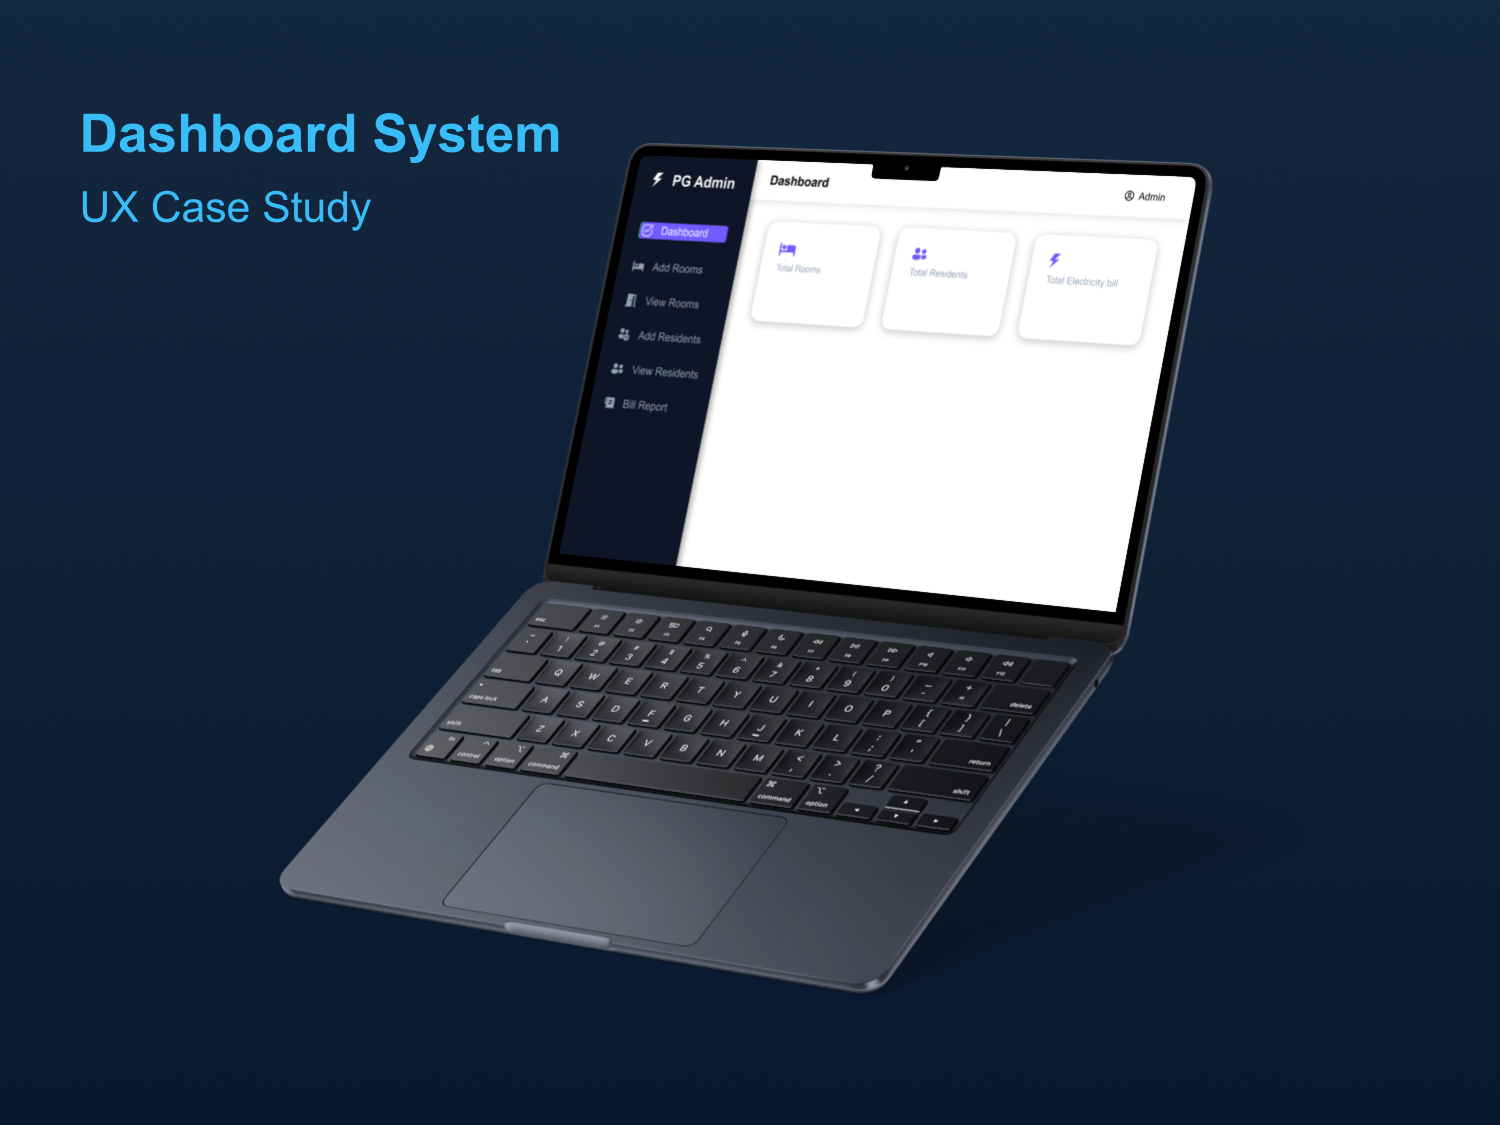
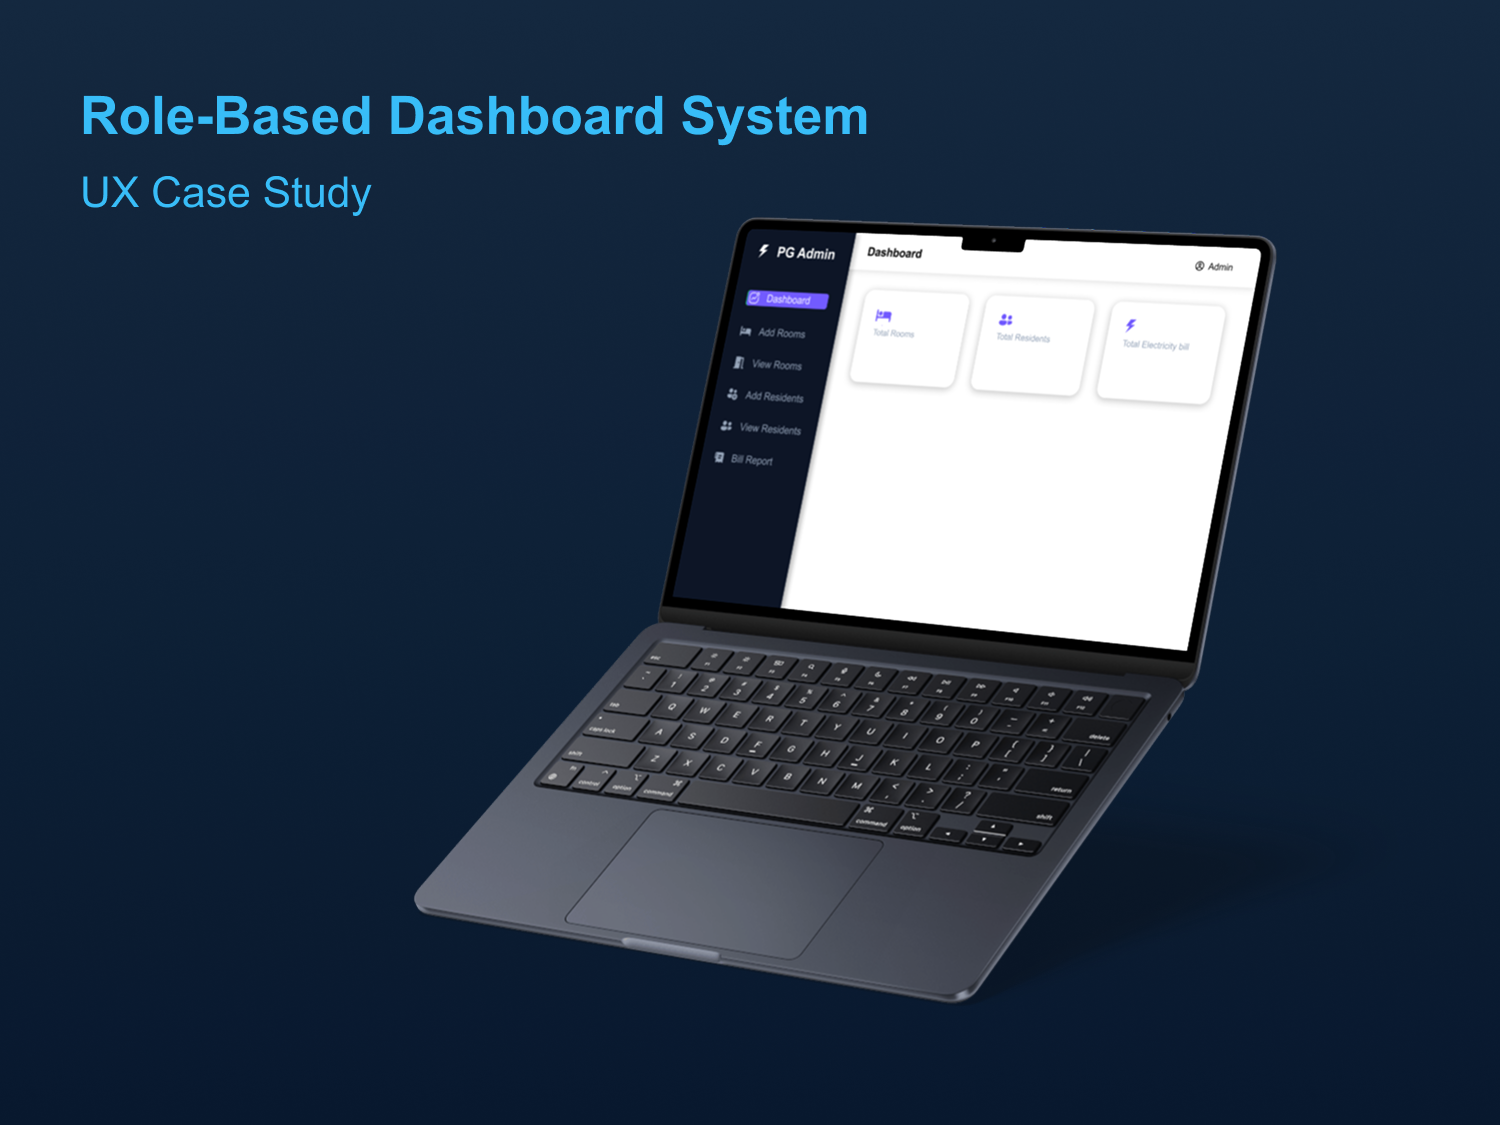
update

Changed region(s): [[0.0613, 0.0622, 0.8587, 0.9022], [0.644, 0.28, 0.6747, 0.3111]]

diff --git a/dashboard-case-study.html b/dashboard-case-study.html
@@ -82,7 +82,7 @@ ul {
 
 <div class="container-custom">
 
-<h1>📊 Admin Dashboard System – UX Case Study</h1>
+<h1>📊 Role-Based Dashboard System – UX Case Study</h1>
 <p>Designing a clean and efficient dashboard to simplify data management and improve usability.</p>
 
 <h2>🚨 Problem</h2>
@@ -177,7 +177,7 @@ This project helped me understand the importance of visual hierarchy, data organ
 
 <br>
 
-<a href="https://www.figma.com/proto/y3z1jXfPE8RlPZ219eLlHn/Dashboard-System?node-id=0-1&t=6JPH9556a9wRdQc6-1" class="btn btn-custom">Live Prototype</a>
+<a href="https://www.figma.com/proto/y3z1jXfPE8RlPZ219eLlHn/Role-Based-Dashboard-System?node-id=0-1&t=6JPH9556a9wRdQc6-1" class="btn btn-custom">Live Prototype</a>
 <a href="index.html" class="btn btn-light">⬅ Back</a>
 
 </div>

diff --git a/index.html b/index.html
@@ -176,7 +176,7 @@ footer {
       <div class="col-md-5">
         <div class="card-premium">
           <img src="images/dashboard-preview.png" class="img-fluid mb-3" style="border-radius:15px;">
-          <h5>Admin Dashboard</h5>
+          <h5>Role-Based Dashboard System</h5>
           <p>Improved data management with clean UX</p>
           <a href="dashboard-case-study.html" class="btn btn-custom">View Case Study</a>
         </div>
